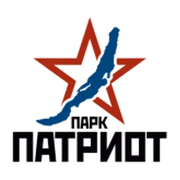
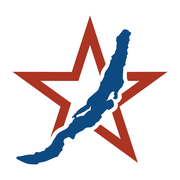
Add files via upload

diff --git a/app/layout.tsx b/app/layout.tsx
@@ -28,6 +28,14 @@ export const metadata: Metadata = {
   title: content.pages.home.title,
   description: content.pages.home.description,
   robots: { index: true, follow: true },
+  // /favicon.ico лежит в public — его ищут Яндекс.Вебмастер, Метрика и Search Console.
+  icons: {
+    icon: [
+      { url: "/favicon.ico", sizes: "any" },
+      { url: "/icon.png", type: "image/png", sizes: "512x512" },
+    ],
+    apple: "/apple-icon.png",
+  },
   // Подтверждение прав в Яндекс.Вебмастере и Google Search Console.
   // Коды — в content/site.json -> site.verification. Пустое значение не выводится.
   verification: {

diff --git a/app/manifest.ts b/app/manifest.ts
@@ -1,0 +1,20 @@
+import type { MetadataRoute } from "next";
+import { content } from "@/lib/content";
+
+export default function manifest(): MetadataRoute.Manifest {
+  const s = content.site;
+  return {
+    name: `${s.name} — ${s.parentName}`,
+    short_name: s.name,
+    description: s.tagline,
+    start_url: "/",
+    display: "standalone",
+    background_color: "#ffffff",
+    theme_color: "#db2200",
+    lang: "ru",
+    icons: [
+      { src: "/icon-192.png", sizes: "192x192", type: "image/png", purpose: "any" },
+      { src: "/icon-512.png", sizes: "512x512", type: "image/png", purpose: "any" },
+    ],
+  };
+}
